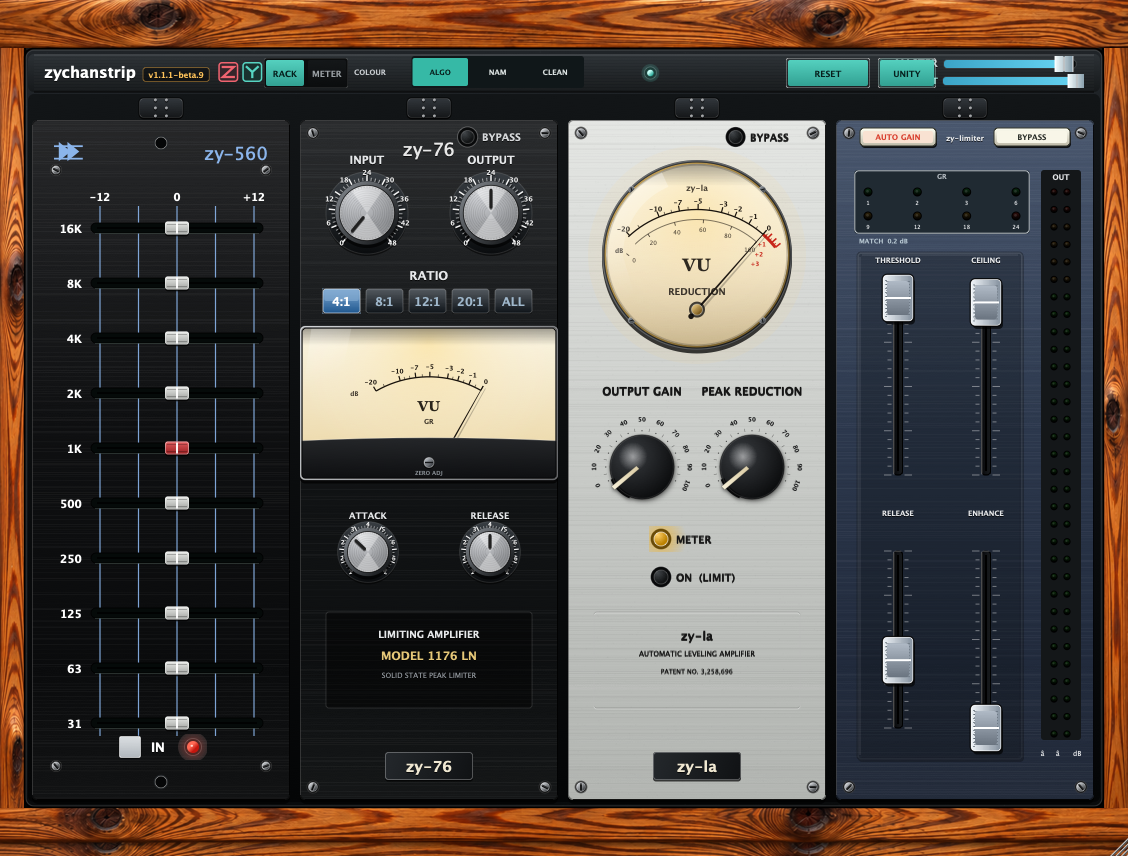
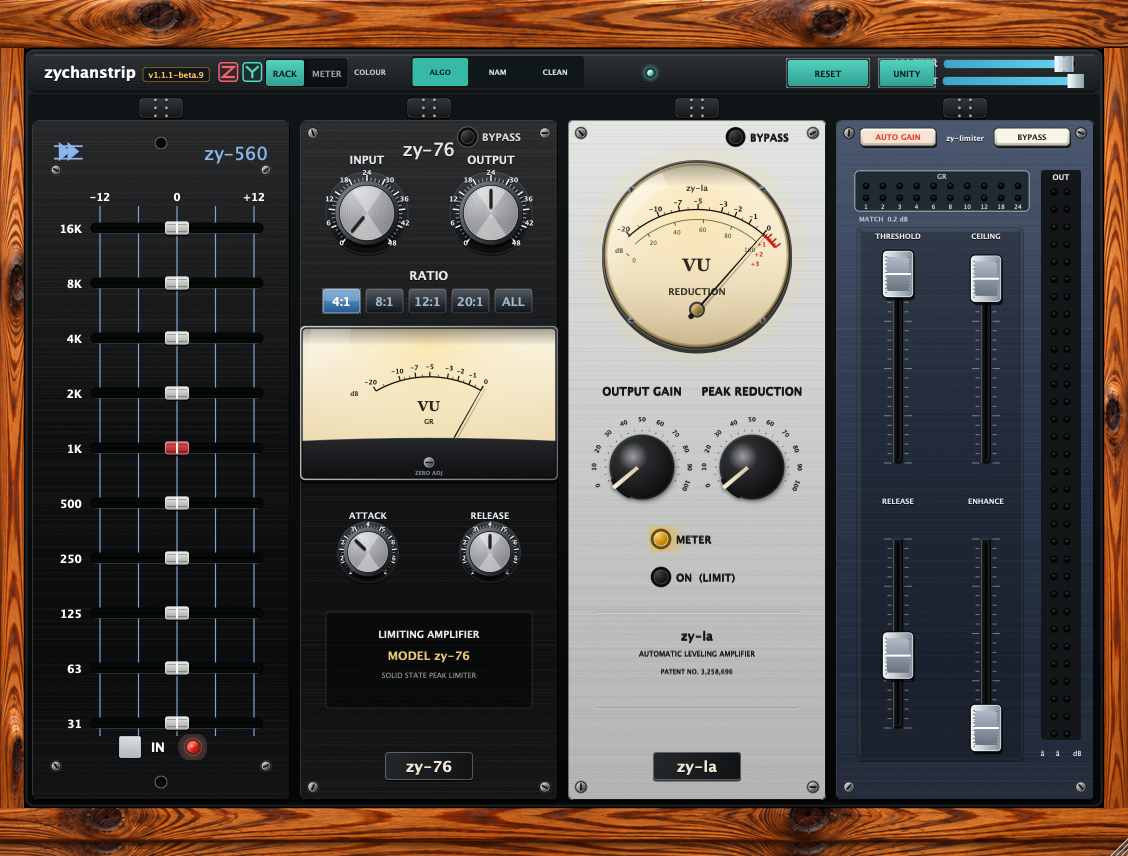
Limiter GR becomes a thin 2x10 stereo indicator; MODEL zy-76
- GR meter: two rows of ten LEDs (top left / bottom right channel), 1..24 dB scale printed
  once under the bottom row, housing spans the THRESHOLD..CEILING caption block and is
  thinner (42 px).
- Fader bank raised to top+62 so the four sliders gain the freed vertical space.
- FET sub-plate reads MODEL zy-76 (was MODEL 1176 LN).
- GUI only: no DSP, parameter, ordering, latency or state changes. Harness 593/593.

diff --git a/Source/PluginEditor.cpp b/Source/PluginEditor.cpp
@@ -2034,7 +2034,7 @@ protected:
 
         engraveText (g, "LIMITING AMPLIFIER", { (int) subPlate.getX(), (int) subPlate.getY() + 14, (int) subPlate.getWidth(), 16 },
                      Justification::centred, 11.5f, pal::engrave, true);
-        engraveText (g, "MODEL 1176 LN", { (int) subPlate.getX(), (int) subPlate.getY() + 34, (int) subPlate.getWidth(), 18 },
+        engraveText (g, "MODEL zy-76", { (int) subPlate.getX(), (int) subPlate.getY() + 34, (int) subPlate.getWidth(), 18 },
                      Justification::centred, 13.5f, Colour (0xffe6c878), true);
         engraveText (g, "SOLID STATE PEAK LIMITER", { (int) subPlate.getX(), (int) subPlate.getY() + 56, (int) subPlate.getWidth(), 14 },
                      Justification::centred, 8.5f, pal::engraveDim, false);
@@ -2140,7 +2140,7 @@ protected:
         autoGain.setBounds (c.getX() + 4, bypass.getY(), bypass.getWidth(), bypass.getHeight());
 
         // Control area below the AUTO GAIN switch, split into two equal rows.
-        const int gridTop = top + 86;
+        const int gridTop = top + 62;
         const int bottomReserve = 26;
         const int gridH = c.getBottom() - gridTop - bottomReserve;
         faderBank = { c.getX() + 3, gridTop - 2, bankW - 10, gridH + 2 };
@@ -2150,10 +2150,11 @@ protected:
         const int rowH = gridH / 2;
         const int cellW = bankW / 2;
 
-        // GR meter: two rows of LEDs, sized so its left and right edges sit exactly on the
-        // THRESHOLD / CEILING caption block (two fader columns, edge to edge).
-        ladderA = { c.getX(), top + 2, cellW * 2, 64 };
-        autoGainStatus = { c.getX() + 5, top + 68, cellW * 2 - 10, 10 };
+        // GR meter: thin stereo indicator, two rows of ten LEDs (L on top, R beneath), with the
+        // dB scale printed once under the bottom row. Its left and right edges sit exactly on
+        // the THRESHOLD / CEILING caption block (two fader columns, edge to edge).
+        ladderA = { c.getX(), top + 2, cellW * 2, 42 };
+        autoGainStatus = { c.getX() + 5, top + 46, cellW * 2 - 10, 10 };
 
         Slider* all[4] { &gain, &ceiling, &release, &fader };
         for (int i = 0; i < 4; ++i)
@@ -2264,14 +2265,14 @@ protected:
         g.setColour(Colour(0xff202a32));g.fillRoundedRectangle(bar,4);
         g.setColour(Colour(0xffb6bdc3));g.drawRoundedRectangle(bar.reduced(.8f),4,1);
         g.setFont(fnt(8));g.drawText("GR",bar.withHeight(12),Justification::centred);
-        const float levels[]{1,2,3,6,9,12,18,24};
-        for(int i=0;i<8;++i){
-            const int row=i/4, col=i%4;
-            const float x=bar.getX()+14.0f+(float)col*(bar.getWidth()-28.0f)/3.0f;
-            const float y=bar.getY()+22.0f+(float)row*24.0f;
-            led(x,y,i<=3?Colour(0xff34ef60):i<=6?Colour(0xffffbc32):Colour(0xffff4235),gr>=levels[i],7);
-            g.setColour(labelColour);g.setFont(fnt(6.5f,false));
-            g.drawText(String((int)levels[i]),Rectangle<float>(x-10.0f,y+6.0f,20.0f,9.0f),Justification::centred);
+        const float levels[]{1,2,3,4,6,8,10,12,18,24};
+        for(int i=0;i<10;++i){
+            const float x=bar.getX()+12.0f+(float)i*(bar.getWidth()-24.0f)/9.0f;
+            const auto col=i<5?Colour(0xff34ef60):i<8?Colour(0xffffbc32):Colour(0xffff4235);
+            led(x,bar.getY()+16.0f,col,gr>=levels[i],4.8f);   // left channel
+            led(x,bar.getY()+28.0f,col,gr>=levels[i],4.8f);   // right channel
+            g.setColour(labelColour);g.setFont(fnt(7.0f,false));
+            g.drawText(String((int)levels[i]),Rectangle<float>(x-9.0f,bar.getY()+31.5f,18.0f,10.0f),Justification::centred);
         }
         // OUT: full-height column starting on the GR meter's top edge.
         const auto out=ladderB.toFloat();g.setColour(Colour(0xff141719));g.fillRoundedRectangle(out.expanded(5,0),3);

diff --git a/README.md b/README.md
@@ -444,8 +444,8 @@ Closed work is recorded with evidence; anything unverified stays open deliberate
 
 ### 2026-11-06 — 1.1.1-beta.9 zy branding and limiter meters
 
-- Faceplate branding is now the zy line: `zy-560`, `zy-76`, `zy-la` and `zy-limiter`.
-- Limiter GR reads as two rows of four LEDs across exactly the THRESHOLD / CEILING caption span; the OUT ladder starts level with the GR meter and carries 32 steps.
+- Faceplate branding is now the zy line: `zy-560`, `zy-76` (including the `MODEL zy-76` sub-plate line), `zy-la` and `zy-limiter`.
+- Limiter GR is a thin stereo indicator: two rows of ten LEDs (left/right) with the dB scale printed once at the bottom, across exactly the THRESHOLD / CEILING caption span. The thinner meter lets the four faders sit higher and run longer, and the OUT ladder starts level with the GR meter with 32 steps.
 
 ### 2026-11-06 — 1.1.1-beta.8 wooden GUI frame
 
@@ -473,6 +473,6 @@ Every notable change since the `v1.0` tag — framework upgrades, DSP fixes, UI 
 and the reasons behind them — is recorded in [CHANGELOG.md](CHANGELOG.md), following Keep a Changelog.
 Current local beta: **1.1.1-beta.9**. No stable release is authorized; promotion remains the user's decision.
 
-Enhance GUI refresh: two rows of GR LEDs beneath the top switches spanning the THRESHOLD/CEILING caption block, top-left Auto Gain matched to bypass size, ivory illuminated switches and twin-column OUT LEDs that rise to the GR meter's top edge, with a dB readout.
+Enhance GUI refresh: a thin stereo GR indicator (two rows of ten LEDs, one scale row) beneath the top switches spanning the THRESHOLD/CEILING caption block, top-left Auto Gain matched to bypass size, ivory illuminated switches and twin-column OUT LEDs that rise to the GR meter's top edge, with a dB readout.
 
 The Enhance OUT ladder now has 32 levels from −48 to 0 dBFS, sized to the full-height column. The meter-page UPDATE knob sets the shared GUI refresh interval from 16–500 ms (default 33 ms); double-click restores 33 ms. This is an editor-only control and does not change audio processing.

diff --git a/docs/specs/zy-branding-limiter-meter.md b/docs/specs/zy-branding-limiter-meter.md
@@ -26,8 +26,9 @@
 
 1. Keep the approved rack layout of the mock: same four faceplates, header, wood frame.
 2. Branding becomes the zy product line: `zy-560`, `zy-76`, `zy-la`, `zy-limiter`.
-3. Limiter (“enhancer”) GR meter: **two rows**, with the housing exactly covering the
-   THRESHOLD / CEILING caption span.
+3. Limiter (“enhancer”) GR meter: **two rows of ten**, a stereo left/right indicator, with the
+   dB numbering printed only once under the bottom row, thinner housing, and the housing
+   exactly covering the THRESHOLD / CEILING caption span.
 4. Limiter OUT meter: extended **upward** so its top edge aligns with the GR meter height.
 5. Build and install a new beta (same numeric line, next prerelease).
 
@@ -39,10 +40,10 @@ defaults, rack ordering, latency or state migration changes.
 | ID | Decision |
 | --- | --- |
 | DES-1 | Console wordmark `560` → `zy-560` (light blue, top right; box widened to 96 px at 21 pt so it does not clip). |
-| DES-2 | FET wordmark `urei` → `zy-76`; model badge `1176` → `zy-76`. |
+| DES-2 | FET wordmark `urei` → `zy-76`; sub-plate `MODEL 1176 LN` → `MODEL zy-76`; model badge `1176` → `zy-76`. |
 | DES-3 | Opto wordmark `TELETRONIX` → `zy-la` in the sub-plate, on the round meter face and in the model badge. |
 | DES-4 | Limiter gains a `zy-limiter` wordmark centred between the AUTO GAIN and BYPASS headers. |
-| DES-5 | GR housing `{c.x, top+2, 2·cellW, 58}` — exactly the two caption cell widths. Eight LEDs in two rows of four (1, 2, 3, 6 / 9, 12, 18, 24 dB), numbers under each LED. OUT ladder `{right-30, GR.y, 30, bankBottom-GR.y}` with 32 steps from −48 dBFS to 0 dBFS. |
+| DES-5 | GR housing `{c.x, top+2, 2·cellW, 42}` — exactly the two caption cell widths, thin. Two rows of ten LEDs (top = left channel, bottom = right channel) on a 1, 2, 3, 4, 6, 8, 10, 12, 18, 24 dB scale; numbers once under the bottom row. OUT ladder `{right-30, GR.y, 30, bankBottom-GR.y}`, 32 steps −48…0 dBFS. gridTop raised to `top+62` so the 2x2 fader bank grows into the freed space. |
 
 ## 3. Build
 

diff --git a/CHANGELOG.md b/CHANGELOG.md
@@ -12,8 +12,9 @@ has been published.
 
 ### Added — 1.1.1-beta.9 zy module branding + two-row GR meter (2026-11-06)
 
-- Rename the faceplate branding to the zy product line: `zy-560` (graphic EQ, top right), `zy-76` (FET compressor wordmark and model badge), `zy-la` (opto wordmark, meter face and model badge) and `zy-limiter` (limiter header). Hardware references in the DSP documentation are unchanged.
-- Redraw the limiter GR meter as two rows of four LEDs (1, 2, 3, 6 / 9, 12, 18, 24 dB), with the housing edges set exactly to the THRESHOLD / CEILING caption span.
+- Rename the faceplate branding to the zy product line: `zy-560` (graphic EQ, top right), `zy-76` (FET wordmark, `MODEL zy-76` sub-plate line and model badge), `zy-la` (opto wordmark, meter face and model badge) and `zy-limiter` (limiter header). Hardware references in the DSP documentation are unchanged.
+- Redraw the limiter GR meter as a thin stereo indicator: two rows of ten LEDs (top row left channel, bottom row right channel) on a 1, 2, 3, 4, 6, 8, 10, 12, 18, 24 dB scale, with the numbers printed once under the bottom row and the housing edges set exactly to the THRESHOLD / CEILING caption span.
+- Raise the limiter's 2x2 fader bank to use the space the thinner GR meter frees, so the four faders are taller.
 - Extend the limiter OUT ladder upward so its top edge aligns with the GR meter's top edge, and raise the ladder to 32 steps from -48 dBFS to 0 dBFS so the taller column keeps its dot density.
 - No DSP, parameter, ordering, latency or state changes.
 
